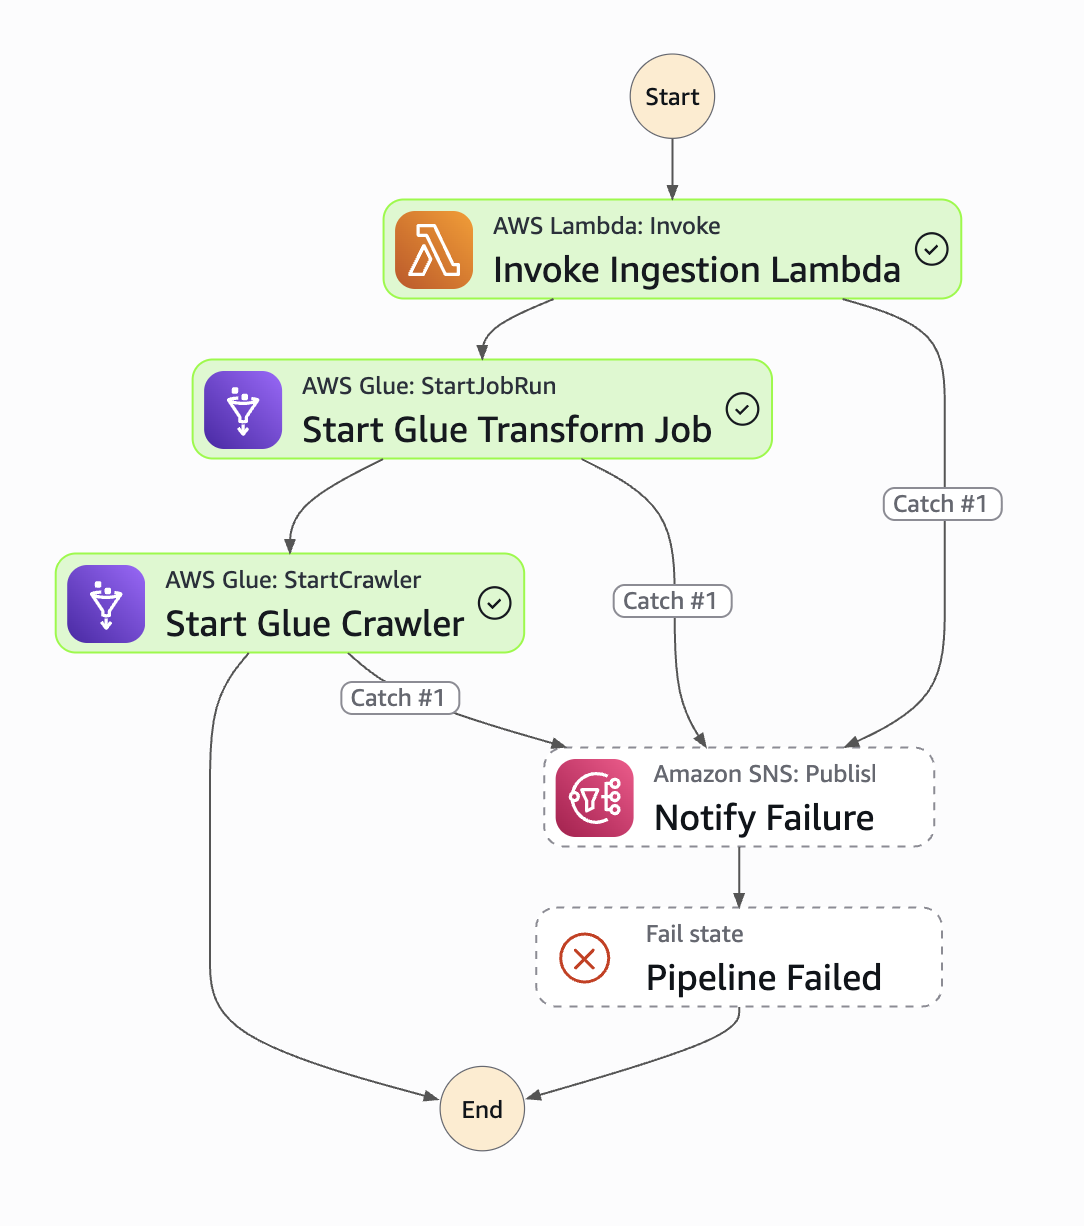
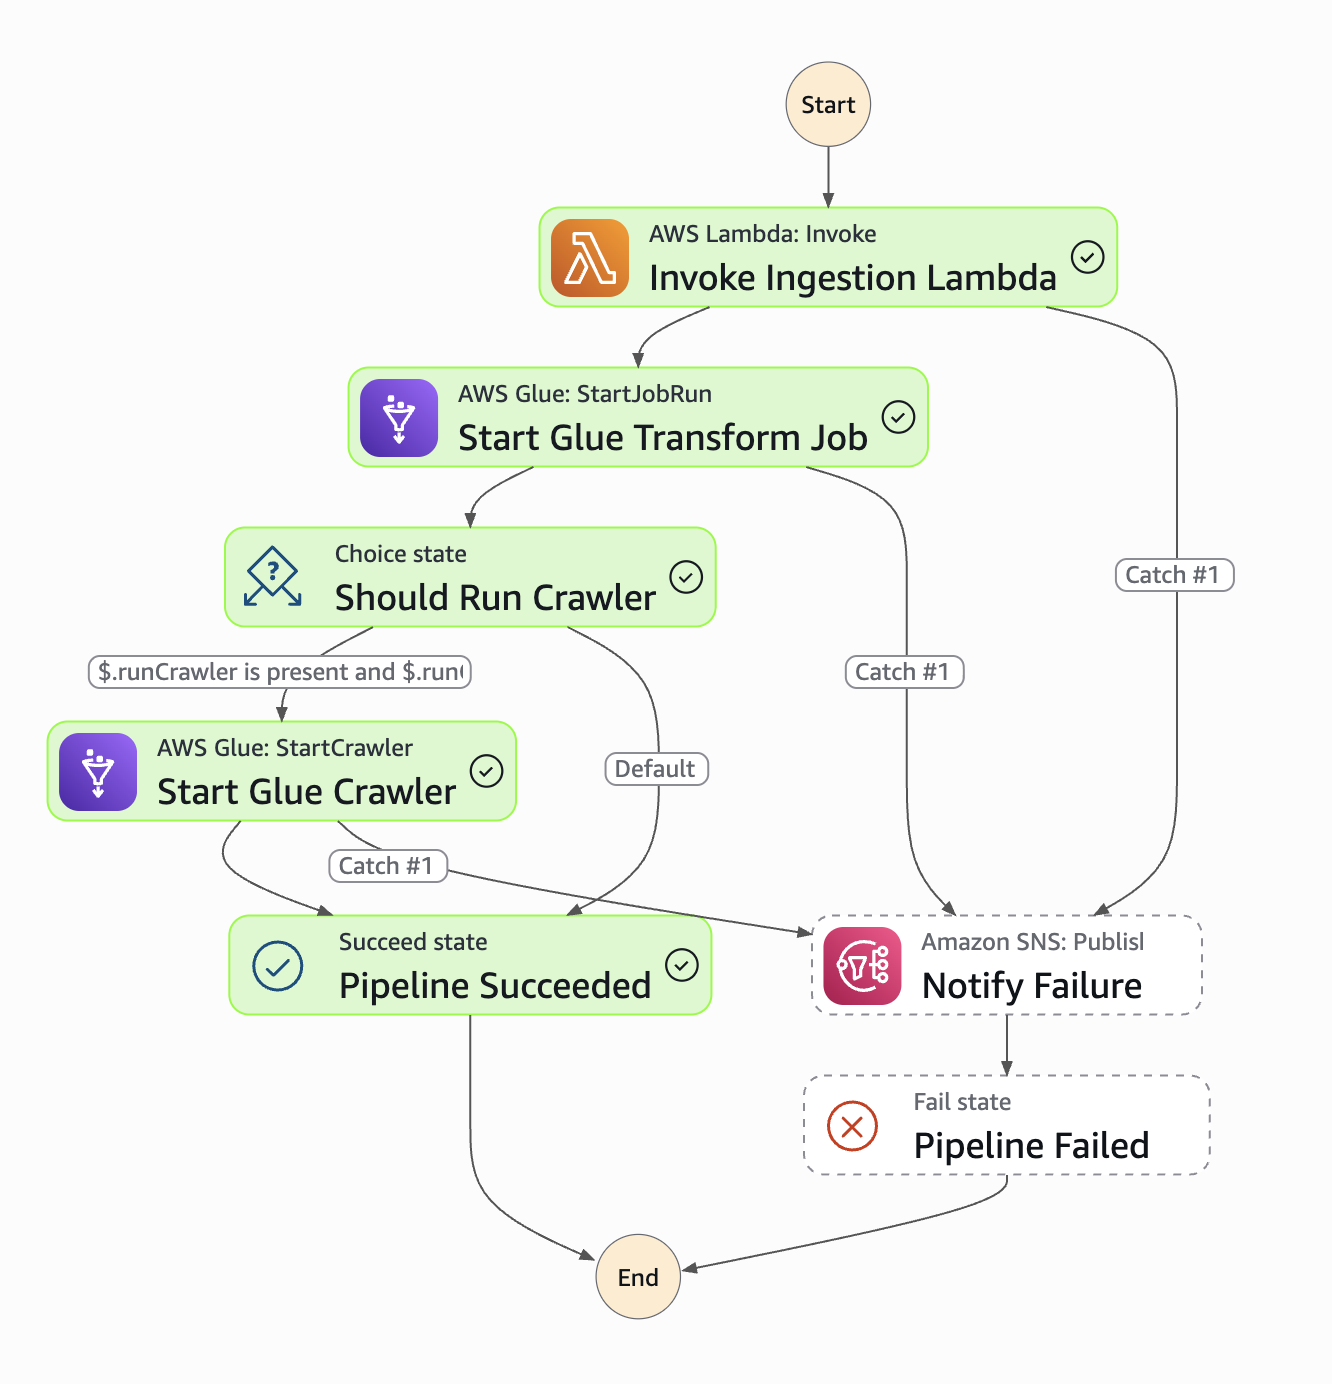
Add choice state for crawler and update README

diff --git a/README.md b/README.md
@@ -29,6 +29,7 @@ processed/economic_indicators/
           │
           ▼
 Glue Crawler (Asynchronous)
+• Only runs when a flag is set manually
           │
           ▼
   Glue Data Catalog
@@ -79,6 +80,12 @@ behavior. By moving the evaluation directly into the Glue ETL job, the pipeline 
 failed if any Glue Data Quality rule fails, and bad data is blocked from reaching the
 curated layer.
 
+**Glue Crawler only runs when a flag is set manually** — The Glue Crawler has no Flex
+execution option and carries a 10-minute minimum billing duration, making it cost roughly
+2x the ETL job itself for a schema that rarely changes. By gating the crawler step behind
+a `runCrawler` flag which is only set to true when the crawler needs to be run (i.e. when
+the series list is updated), costs can be minimized for routine runs.
+
 ## EventBridge Daily Schedule
 
 ![EventBridge daily schedule](screenshots/eventbridge_schedule.png)
@@ -86,6 +93,7 @@ curated layer.
 ## Step Functions Orchestration
 
 ![Step Functions](screenshots/step_functions.png)
+*Crawler step not normally run in daily schedule (see Design Decisions)
 
 ## Lambda Execution
 
